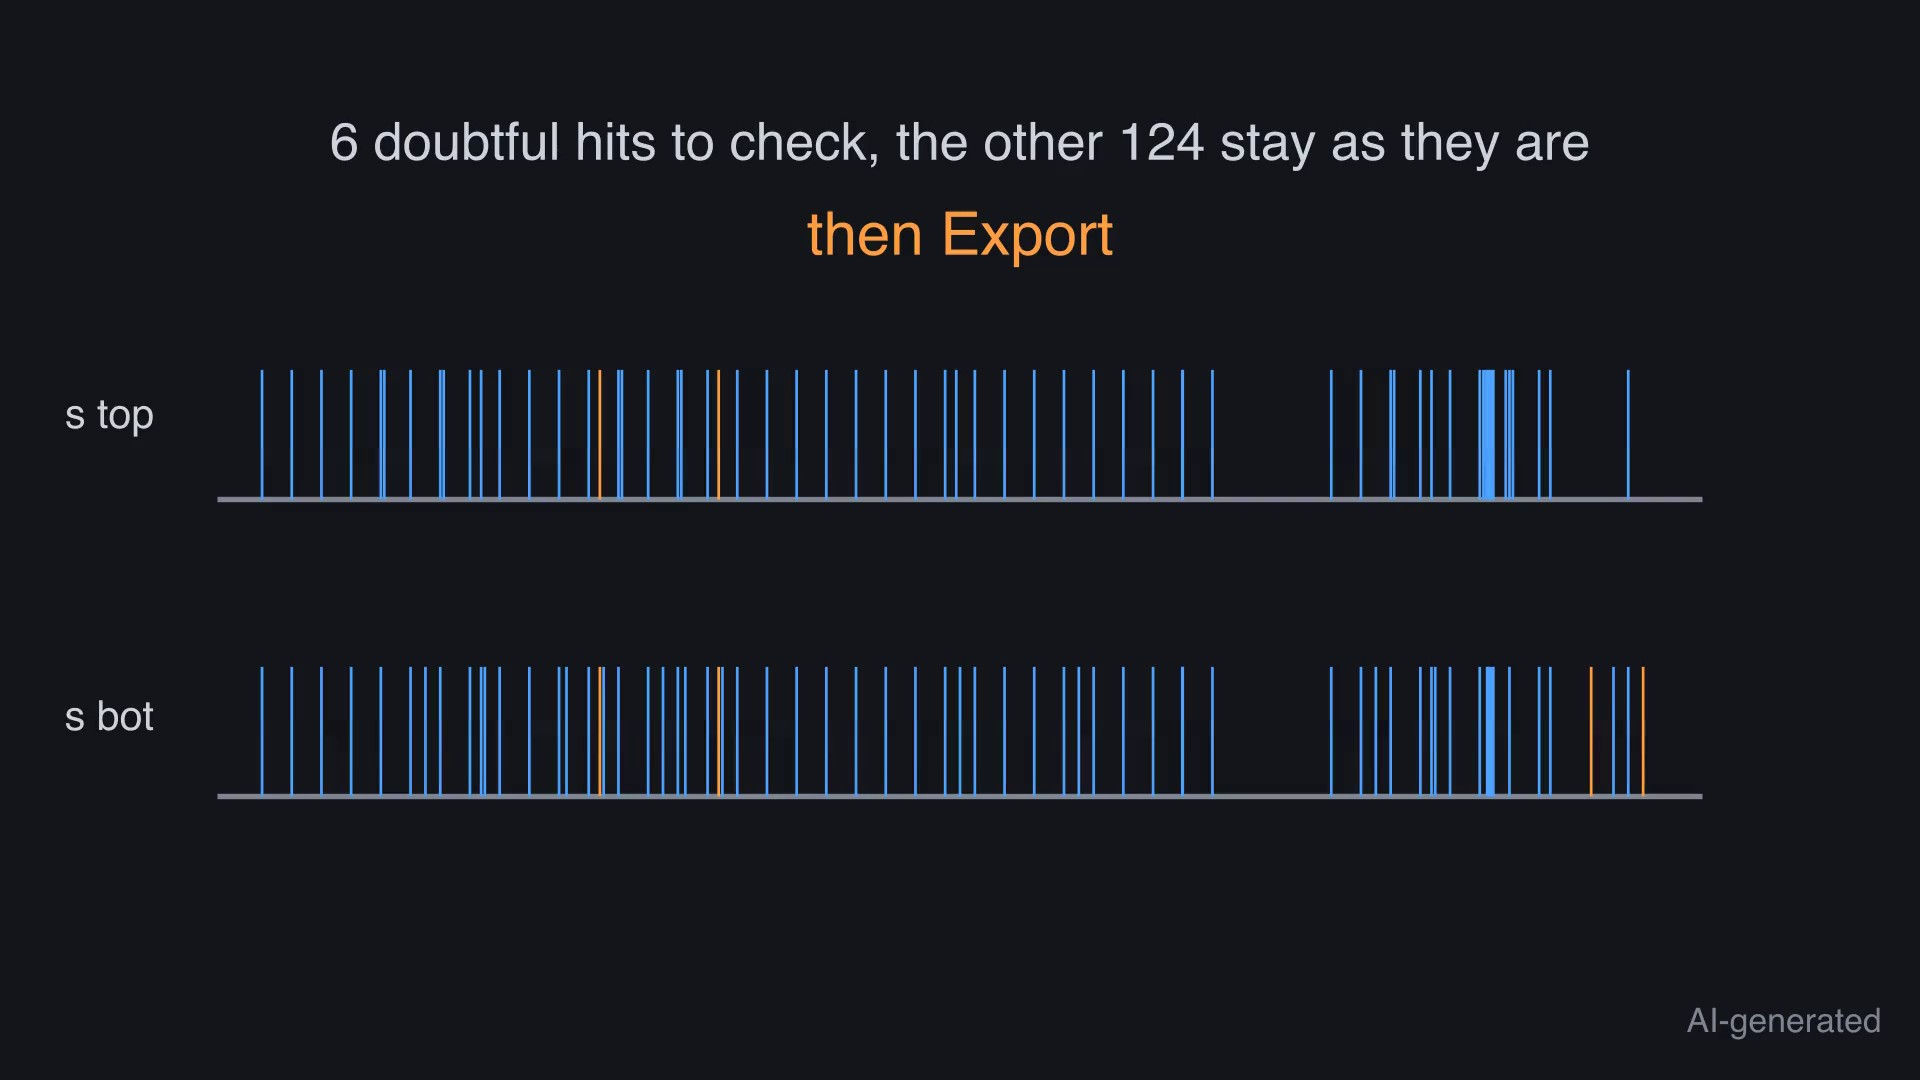
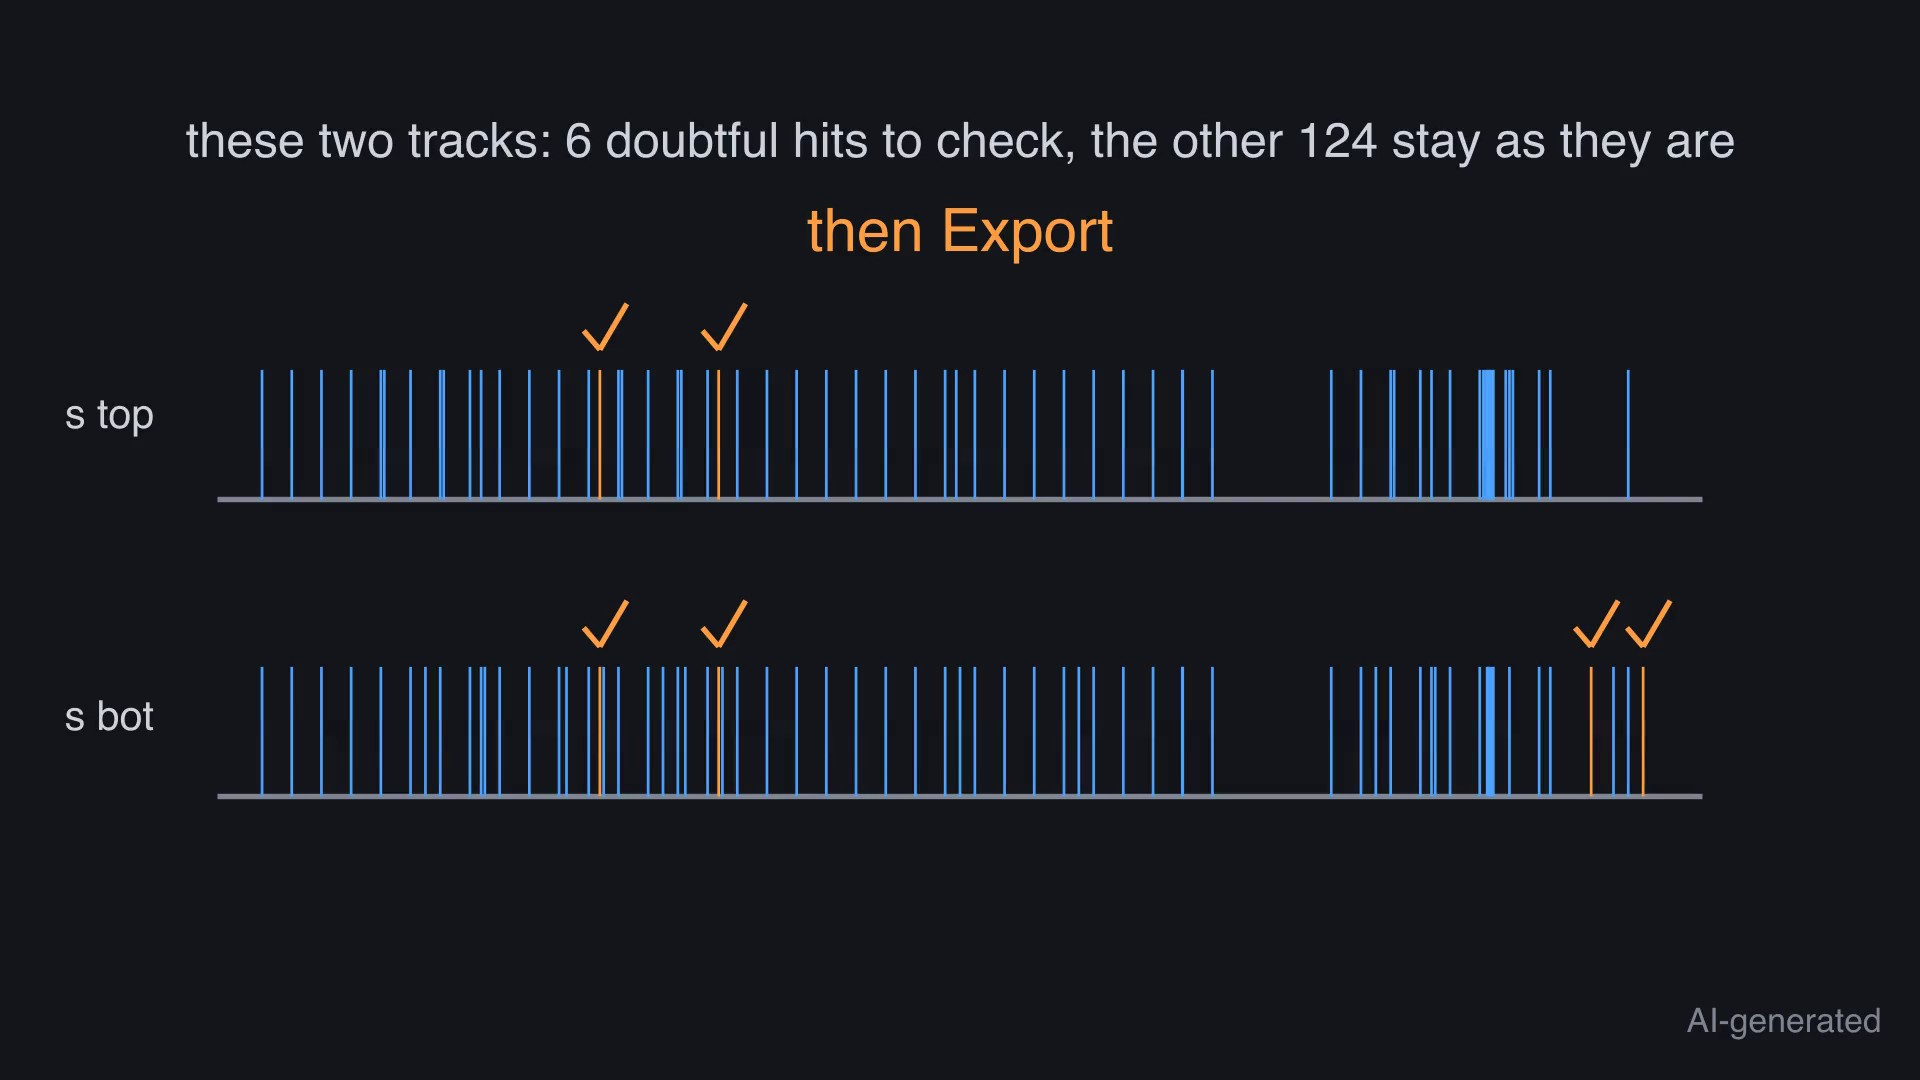
Explainer 9: two-track title, holds spread over the narration, checked-off result (#485)

diff --git a/tools/media/explainers/explainer_09.py b/tools/media/explainers/explainer_09.py
@@ -17,7 +17,7 @@ import tempfile
 from pathlib import Path
 
 from explainer_common import (
-    COBALT, DIM, DOWN, ORANGE, TEXT, UP, Create, DashedLine, Explainer, FadeIn, FadeOut, FONT, Line,
+    CLEAR_SECONDS, COBALT, DIM, DOWN, ORANGE, TEXT, UP, Create, DashedLine, Explainer, FadeIn, FadeOut, FONT, Line,
     Rectangle, Text, VGroup,
 )
 from explainer_10 import SR, demo_dir, lane_wave, truth
@@ -128,6 +128,10 @@ def label_rows(xs, gap=0.4):
 
 class Explainer09(Explainer):
     script_ids = ("s01-problem", "s02-confidence", "s03-queue", "s04-why", "s05-decide", "s06-result")
+    # The seconds that each scene's steps take at pace 1 (the sum of its t= values). A scene whose narration is
+    # longer slows its steps down (never speeds them up), so the holds sit between the steps, not at the end.
+    # The last scene keeps pace 1: its result frame is the poster, taken at the middle of the scene.
+    PLAN = {"s01-problem": 7.5, "s02-confidence": 11.0, "s03-queue": 10.0, "s04-why": 9.5, "s05-decide": 11.2}
 
     def setup(self):
         super().setup()
@@ -135,6 +139,22 @@ class Explainer09(Explainer):
         self.dur = truth()["duration_samples"] / SR
         self.queue = queue_of(self.rated)
         assert self.queue, "the session has no doubtful hit: the picture has nothing to show"
+        self.pace = 1.0
+
+    def begin(self, sid):
+        super().begin(sid)
+        plan = self.PLAN.get(sid)
+        self.pace = max(1.0, (self.narration[sid] - CLEAR_SECONDS - 0.3) / plan) if plan else 1.0
+
+    def end(self):
+        self.pace = 1.0   # the closing fade and the pad to the narration run at their own length
+        super().end()
+
+    def t_play(self, *anims, t=2.0):
+        super().t_play(*anims, t=t * self.pace)
+
+    def t_wait(self, t):
+        super().t_wait(t * self.pace)
 
     # ---- the lanes ----
 
@@ -189,6 +209,13 @@ class Explainer09(Explainer):
         y = BASE[item["track"]]
         return Line([x, y - 0.05, 0], [x, y + HEIGHT + 0.1, 0], color=TEXT, stroke_width=4)
 
+    def check_mark(self, item):
+        """A check mark over the stalk of a checked hit, above the full-height stalks around it."""
+        x = x_of(item["t"], self.dur)
+        y = BASE[item["track"]] + HEIGHT * 0.8 + 0.15
+        return VGroup(Line([x - 0.12, y + 0.14, 0], [x, y, 0], color=ORANGE, stroke_width=4),
+                      Line([x, y, 0], [x + 0.2, y + 0.34, 0], color=ORANGE, stroke_width=4))
+
     def hit_count(self):
         return sum(len(v) for v in self.rated.values())
 
@@ -196,7 +223,7 @@ class Explainer09(Explainer):
 
     def s01_problem(self):
         """Two snare tracks of one song, every hit a stalk."""
-        title = Text(f"two tracks of one song: {self.hit_count()} hits", font=FONT, font_size=26, color=TEXT)
+        title = Text(f"two of the tracks of one song: {self.hit_count()} hits", font=FONT, font_size=26, color=TEXT)
         self.t_play(Create(self.lane_frame()), t=2.0)
         self.t_play(FadeIn(self.stalks(False, mark_doubtful=False)), FadeIn(title.to_edge(UP, buff=0.9)), t=3.5)
         self.say("Most hits are clear. A few are less sure.", t=2.0)
@@ -222,7 +249,8 @@ class Explainer09(Explainer):
         n = len(self.queue)
         head = self.playhead(self.queue[0])
         status = Text(f"doubtful hit 1 of {n}", font=FONT, font_size=26, color=ORANGE).next_to(key, DOWN, buff=0.3)
-        self.t_play(FadeIn(head), FadeIn(status), t=1.5)
+        scope = Text("the queue of these two snare tracks", font=FONT, font_size=20, color=DIM).next_to(status, DOWN, buff=0.2)
+        self.t_play(FadeIn(head), FadeIn(status), FadeIn(scope), t=1.5)
         nxt = self.queue[1] if n > 1 else self.queue[0]
         status2 = Text(f"doubtful hit {2 if n > 1 else 1} of {n}", font=FONT, font_size=26, color=ORANGE).move_to(status)
         target = self.playhead(nxt)
@@ -263,13 +291,15 @@ class Explainer09(Explainer):
         self.say("The queue only points. It changes no hit.", t=2.0)
 
     def s06_result(self):
-        """The same hits as before; the few doubtful ones marked; Export."""
+        """The same hits as before; the short list checked off one by one, then Export. The steps end before the
+        middle of the scene, so the result is on screen for the rest of it (and for the poster)."""
         n = len(self.queue)
         total = self.hit_count()
-        counts = Text(f"{n} doubtful hits to check, the other {total - n} stay as they are", font=FONT, font_size=28,
-                      color=TEXT).to_edge(UP, buff=0.9)
-        self.t_play(Create(self.lane_frame()), FadeIn(self.stalks(False)), t=3.0)
-        self.t_play(FadeIn(counts), t=2.0)
+        counts = Text(f"these two tracks: {n} doubtful hits to check, the other {total - n} stay as they are",
+                      font=FONT, font_size=26, color=TEXT).to_edge(UP, buff=0.9)
+        self.t_play(Create(self.lane_frame()), FadeIn(self.stalks(False)), t=1.5)
+        self.t_play(FadeIn(counts), t=1.0)
+        for item in self.queue:   # in the order of the queue
+            self.t_play(Create(self.check_mark(item)), t=0.4)
         export = Text("then Export", font=FONT, font_size=32, color=ORANGE).next_to(counts, DOWN, buff=0.3)
-        self.t_play(FadeIn(export), t=2.0)
-        self.t_wait(1.0)
+        self.t_play(FadeIn(export), t=1.0)
